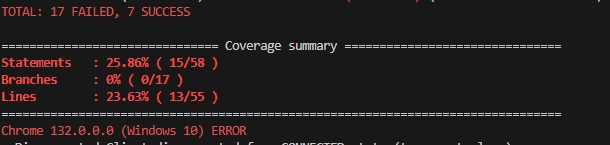
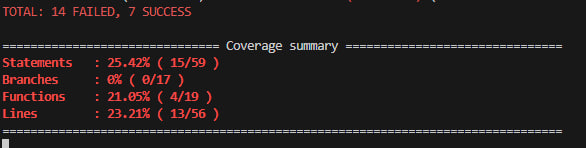
Add files via upload

diff --git a/src/app/app.component.spec.ts b/src/app/app.component.spec.ts
@@ -1,114 +1,90 @@
 import { ComponentFixture, TestBed } from '@angular/core/testing';
 import { AppComponent } from './app.component';
-import { WorkoutService } from './services/workout.service';
-import { MatTableDataSource } from '@angular/material/table';
-import { MatPaginatorModule } from '@angular/material/paginator';
 import { FormsModule } from '@angular/forms';
+import { WorkoutService } from './services/workout.service';
+import { MatPaginatorModule } from '@angular/material/paginator';
+import { MatTableModule } from '@angular/material/table';
+import { of } from 'rxjs';
 import { WorkoutListComponent } from './components/workout-list/workout-list.component';
 import { WorkoutEntryComponent } from './components/workout-entry/workout-entry.component';
-import { By } from '@angular/platform-browser';
 
 describe('AppComponent', () => {
   let component: AppComponent;
   let fixture: ComponentFixture<AppComponent>;
-  let workoutService: WorkoutService;
+  let workoutServiceMock: any;
 
   beforeEach(async () => {
+    workoutServiceMock = {
+      getWorkouts: jasmine.createSpy('getWorkouts').and.returnValue(of([]))
+    };
+
     await TestBed.configureTestingModule({
-      imports: [MatPaginatorModule, FormsModule],
-      declarations: [AppComponent, WorkoutListComponent, WorkoutEntryComponent],
-      providers: [WorkoutService]
+      declarations: [AppComponent],
+      imports: [FormsModule, MatPaginatorModule, MatTableModule],
+      providers: [{ provide: WorkoutService, useValue: workoutServiceMock }]
     }).compileComponents();
   });
 
   beforeEach(() => {
     fixture = TestBed.createComponent(AppComponent);
     component = fixture.componentInstance;
-    workoutService = TestBed.inject(WorkoutService);
     fixture.detectChanges();
   });
 
-  it('should create the app', () => {
+  it('should create the app component', () => {
     expect(component).toBeTruthy();
   });
 
-  it('should initialize with predefined workouts', () => {
-    expect(component.workoutList.data.length).toBe(3);
+  it('should have default warning message visible', () => {
+    expect(component.warningMessage).toBe(
+      "If you'd like to add another exercise for the same user, simply enter their name exactly as before. 😊"
+    );
   });
 
-  it('should add a new workout', () => {
-    const newWorkout = { name: 'Mike', exercise: 'Swimming', duration: 20 };
+  it('should add a new workout entry', () => {
+    const newWorkout = { name: 'Alice', exercise: 'Push-ups', duration: 20 };
     component.onWorkoutAdded(newWorkout);
 
-    expect(component.workoutList.data.length).toBe(4);
-    expect(component.workoutList.data.find(w => w.name === 'Mike')).toEqual(newWorkout);
+    expect(component.workoutList.data.some(w => w.name === 'Alice' && w.exercise === 'Push-ups' && w.duration === 20)).toBeTrue();
   });
 
-  it('should update duration when the same user adds the same exercise', () => {
-    const newWorkout = { name: 'vijay', exercise: 'Jumping', duration: 10 };
+  it('should update duration if the same user and exercise exist', () => {
+    component.workoutList.data = [{ name: 'Bob', exercise: 'Jumping', duration: 30 }];
+
+    const newWorkout = { name: 'Bob', exercise: 'Jumping', duration: 15 };
     component.onWorkoutAdded(newWorkout);
 
-    const updatedWorkout = component.workoutList.data.find(w => w.name === 'vijay');
-    expect(updatedWorkout?.duration).toBe(40);
+    expect(component.workoutList.data.find(w => w.name === 'Bob')?.duration).toBe(45);
   });
 
-  it('should append a new exercise if user exists but with a different exercise', () => {
-    const newWorkout = { name: 'vijay', exercise: 'Swimming', duration: 15 };
+  it('should append exercise if the same user but different exercise', () => {
+    component.workoutList.data = [{ name: 'Charlie', exercise: 'Running', duration: 20 }];
+
+    const newWorkout = { name: 'Charlie', exercise: 'Swimming', duration: 15 };
     component.onWorkoutAdded(newWorkout);
 
-    const updatedWorkout = component.workoutList.data.find(w => w.name === 'vijay');
-    expect(updatedWorkout?.exercise).toContain('Jumping, Swimming');
-    expect(updatedWorkout?.duration).toBe(45);
+    const updatedWorkout = component.workoutList.data.find(w => w.name === 'Charlie');
+    expect(updatedWorkout?.exercise).toContain('Running, Swimming');
+    expect(updatedWorkout?.duration).toBe(35);
   });
 
-  it('should filter workouts correctly', () => {
-    component.searchText = 'Jumping';
-    component.applyFilter();
+  it('should select a user', () => {
+    const mockEvent = { target: { value: 'David' } };
+    component.onUserSelect(mockEvent);
 
-    expect(component.workoutList.filteredData.length).toBe(1);
+    expect(component.selectedUser).toBe('David');
   });
 
-  it('should save workouts to localStorage', () => {
-    spyOn(localStorage, 'setItem');
-    component.saveWorkouts();
-
-    expect(localStorage.setItem).toHaveBeenCalledWith('workouts', jasmine.any(String));
-  });
-
-  it('should load workouts from localStorage', () => {
-    const mockData = JSON.stringify([
-      { name: 'Alex', exercise: 'Jogging', duration: 25 }
-    ]);
-    spyOn(localStorage, 'getItem').and.returnValue(mockData);
-
-    component.loadWorkouts();
-
-    expect(component.workoutList.data.length).toBe(1);
-    expect(component.workoutList.data[0].name).toBe('Alex');
-  });
-
-  it('should toggle scroll-to-top button visibility based on scroll position', () => {
+  it('should show the scroll button when scrolled down', () => {
     spyOnProperty(window, 'scrollY', 'get').and.returnValue(150);
     component.onWindowScroll();
     expect(component.showScrollTopButton).toBeTrue();
+  });
 
-    spyOnProperty(window, 'scrollY', 'get').and.returnValue(50);
+  it('should hide the scroll button when at the top', () => {
+    spyOnProperty(window, 'scrollY', 'get').and.returnValue(0);
     component.onWindowScroll();
     expect(component.showScrollTopButton).toBeFalse();
   });
 
-  it('should show the scroll button when scrolled more than 100px', () => {
-    // Simulate scrolling down by 150px
-    window.scrollTo(0, 150);
-    component.onWindowScroll();
-  
-    // Check if the scroll button is visible
-    expect(component.showScrollTopButton).toBeTrue();
-  });
-  
-  it('should update selectedUser when onUserSelect is triggered', () => {
-    const event = { target: { value: 'vijay' } };
-    component.onUserSelect(event);
-    expect(component.selectedUser).toBe('vijay');
-  });
 });

diff --git a/src/app/app.component.ts b/src/app/app.component.ts
@@ -22,6 +22,7 @@ export class AppComponent {
   displayedColumns: string[] = ['name', 'exercise', 'duration'];
   successMessage: string | null = null;
   searchText: string = '';  
+  warningMessage: string = "If you'd like to add another exercise for the same user, simply enter their name exactly as before. 😊";
 
   public selectedUser: string | null = null;
   

diff --git a/src/app/app.component.html b/src/app/app.component.html
@@ -5,9 +5,9 @@
   </header><br>
 
   <!-- Workout Entry Form -->
-  
+  {{ warningMessage }}<br><br>
     <app-workout-entry (workoutAdded)="onWorkoutAdded($event)"></app-workout-entry>
-
+      
 
   <!-- Search Input -->
   <div class="mt-4">
